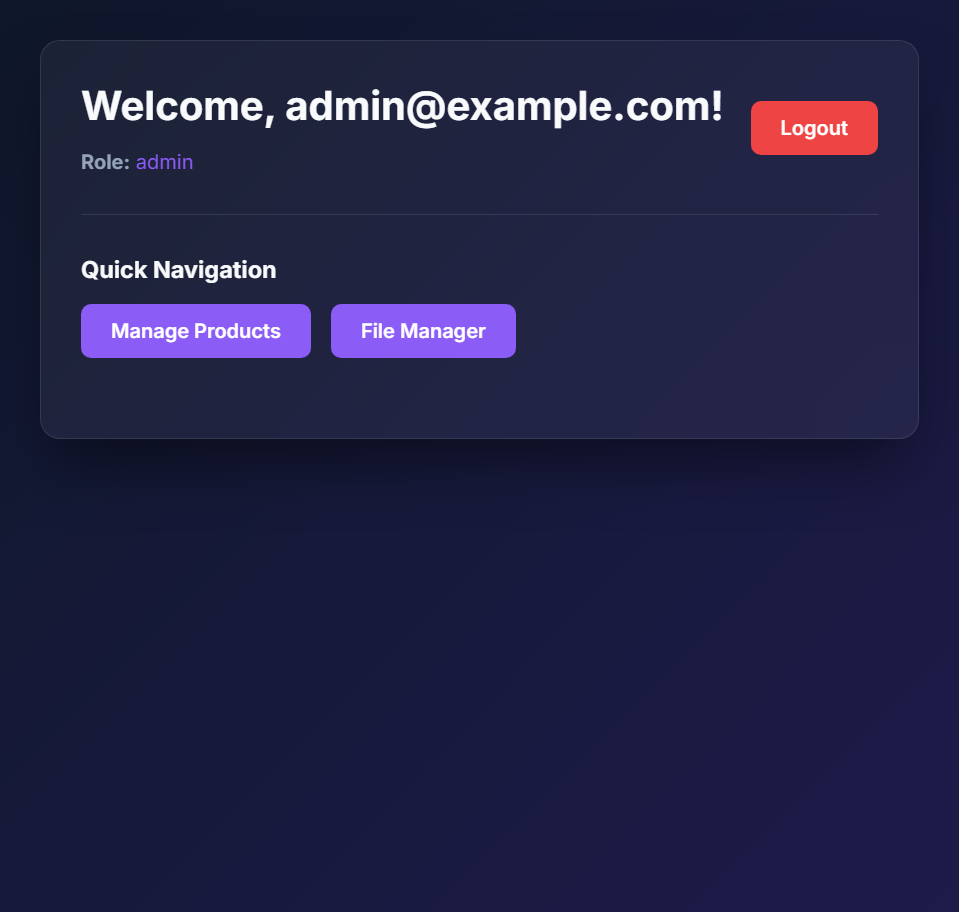
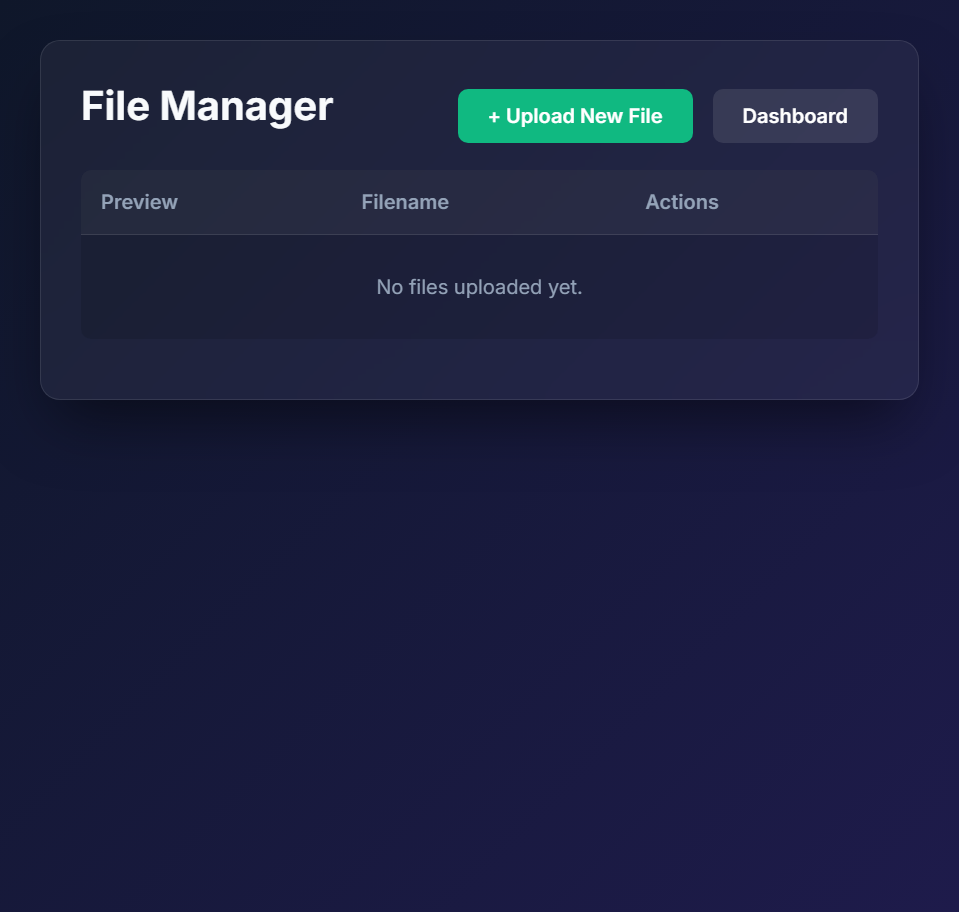
completion

diff --git a/CAHIER_DES_CHARGES.md b/CAHIER_DES_CHARGES.md
@@ -1,0 +1,102 @@
+# Cahier des Charges - Projet PHP MVC
+
+## 1. Présentation du sujet et analyse des besoins
+
+### Présentation du sujet
+Le projet consiste en la conception et le développement d'une application web de gestion (back-office) basée sur une architecture **MVC (Modèle-Vue-Contrôleur)** construite "from scratch" en PHP natif. Ce choix technologique permet de maîtriser intégralement le cycle de vie de la requête HTTP sans dépendre de frameworks externes, garantissant ainsi une application légère, performante et hautement sécurisée.
+
+L'application a pour objectif de fournir une interface d'administration complète permettant de gérer des produits, leurs catégories, les utilisateurs du système ainsi qu'un espace de stockage de fichiers (File Manager).
+
+### Analyse des besoins
+**Besoins Fonctionnels :**
+- **Authentification et Autorisation :** Un système de connexion sécurisé avec gestion des rôles (ex: administrateur). L'accès aux modules (dashboard, gestion) doit être restreint aux utilisateurs authentifiés.
+- **Gestion des Produits et Catégories (CRUD) :** L'utilisateur doit pouvoir créer, lire, modifier et supprimer des produits et des catégories. Un produit doit appartenir à une catégorie.
+- **Recherche Avancée :** Un moteur de recherche dynamique multi-critères avec système de pagination pour filtrer le catalogue de produits.
+- **Gestionnaire de Fichiers (File Manager) :** Un module permettant l'upload sécurisé de fichiers, leur validation (MIME types, taille), leur stockage physique isolé, et le référencement de leurs métadonnées en base de données.
+
+**Besoins Non Fonctionnels :**
+- **Design et Ergonomie (UI/UX) :** Interface utilisateur moderne et "premium", utilisant les principes du *glassmorphism*, avec un mode sombre (dark mode), des transitions fluides et un design entièrement responsive.
+- **Sécurité :** Protection contre les failles courantes (injections SQL via requêtes préparées PDO, failles XSS via l'échappement des sorties, protection des mots de passe via `password_hash`).
+- **Architecture :** Respect strict du patron de conception MVC, séparation des logiques (Routeur, Contrôleurs, DAO, Entités, Vues).
+
+---
+
+## 2. Schéma relationnel de la base de données
+
+L'architecture des données repose sur 4 entités principales interconnectées.
+
+```mermaid
+erDiagram
+    users {
+        int id PK
+        varchar email "UNIQUE"
+        varchar password_hash
+        varchar role
+        timestamp created_at
+    }
+    categories {
+        int id PK
+        varchar name
+        varchar slug "UNIQUE"
+    }
+    products {
+        int id PK
+        varchar name
+        text description
+        decimal price
+        int category_id FK
+        varchar image_path
+        timestamp created_at
+    }
+    files {
+        int id PK
+        varchar original_name
+        varchar stored_name
+        varchar mime_type
+        int size
+        int user_id FK
+        timestamp created_at
+    }
+
+    categories ||--o{ products : "possède (1,n)"
+    users ||--o{ files : "uploade (1,n)"
+```
+
+**Règles de gestion :**
+- Un **produit** appartient à zéro ou une **catégorie** (clé étrangère `category_id` avec clause `ON DELETE SET NULL`).
+- Un **fichier** uploadé est obligatoirement lié à l'**utilisateur** qui l'a soumis (clé étrangère `user_id` avec clause `ON DELETE CASCADE`).
+
+---
+
+## 3. Captures d'écran légendées (Guide utilisateur)
+
+Ce guide décrit visuellement le fonctionnement des modules principaux de l'application.
+
+### A. Interface d'Authentification
+*(Insérer la capture d'écran de `http://localhost/PHP-Project/public/` ici)*  
+**Légende :** *Page de connexion au back-office.* 
+L'utilisateur doit entrer ses identifiants (ex: [email redacted]). Le formulaire est stylisé avec des effets de transparence et un arrière-plan dynamique. En cas d'erreur de frappe, un message d'alerte rouge s'affiche.
+
+### B. Tableau de bord (Dashboard)
+*(Insérer la capture d'écran du Dashboard ici)*  
+**Légende :** *Le tableau de bord principal après connexion.*
+Une fois authentifié, l'administrateur accède au panel d'accueil qui sert de point de navigation vers les différents modules (Gestion des produits, Fichiers, Recherche).
+
+### C. Gestion des Produits (Index & Formulaire)
+*(Insérer la capture d'écran de la liste des produits ici)*  
+**Légende :** *Affichage sous forme de grille/tableau des produits existants.*
+Cette vue affiche tous les produits avec leurs catégories associées. Des boutons d'action (Ajouter, Éditer, Supprimer) permettent d'interagir avec les données.
+
+*(Insérer la capture d'écran du formulaire de création/édition ici)*  
+**Légende :** *Formulaire d'ajout d'un nouveau produit.*
+Les champs obligatoires sont marqués. Le design inclut des sélecteurs (dropdowns) pour la catégorie et un champ d'upload pour l'image du produit.
+
+### D. Recherche Avancée
+*(Insérer la capture d'écran du module de recherche ici)*  
+**Légende :** *Moteur de recherche multicritères.*
+L'utilisateur peut saisir des mots-clés. La liste des résultats se met à jour et inclut un système de pagination ergonomique au bas de la page.
+
+### E. Gestionnaire de Fichiers (Upload)
+*(Insérer la capture d'écran du File Manager ici)*  
+**Légende :** *Interface d'upload et historique des fichiers.*
+Espace dédié à la gestion des médias. Affiche la taille, le format (MIME type), le nom du propriétaire, et la date d'upload. Permet de télécharger en un clic de nouvelles pièces jointes de manière sécurisée.

diff --git a/README.md b/README.md
@@ -85,3 +85,6 @@ php-project/
 ├── utils/              # Global application utilities (Auth, Uploader)
 └── views/              # Front-end HTML presentation logic and layouts
 ```
+##Demo
+![alt text](image1.png)
+![alt text](image.png)